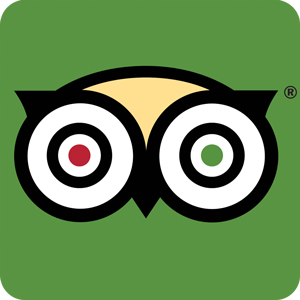
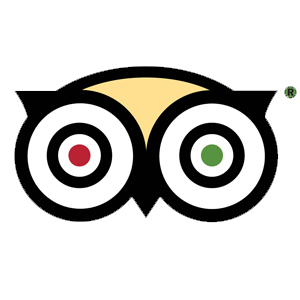
header panels

diff --git a/assets/override.css b/assets/override.css
@@ -56,18 +56,27 @@
                 }
             .video-wrpr .container-fluid  .header-menu-top .panel.panel--tripadvisor{
                 width: 100%;
-                padding: 15px;
+                padding: 0 15px;
                 float: left;
-                background-color: rgba(255,255,255,0.5);
+                background-color: rgba(87, 147, 64, 0.7);
             }
                 .video-wrpr .container-fluid  .header-menu-top .panel.panel--tripadvisor img {
-                    width: 100%;
+                    height: 40px;
                     margin: 10px 0;
                 }
                 .video-wrpr .container-fluid  .header-menu-top .panel.panel--tripadvisor blockquote {
-                    margin: 10px 0;
+                    margin: 10px 0 10px -10px;
                     font-size: 12px;
+                    height: 40px;
                 } 
+                    .video-wrpr .container-fluid  .header-menu-top .panel.panel--tripadvisor blockquote p {
+                        height: 40px;
+                        text-align: left;
+                        vertical-align: middle;
+                        display: table-cell;
+                        color: white;
+                        font-weight: bold;
+                    }
             .video-wrpr .container-fluid  .header-menu-top .panel.panel--gallery {
                 background: transparent;
             } 
@@ -79,19 +88,22 @@
                         margin: 0;
                     }
                         .video-wrpr .container-fluid  .header-menu-top .panel.panel--gallery .gallery-list li {
-                            
-                            width: 20%;
-                            display: block;
-                            float: left;
-                            padding: 0 30px;
+                            display: inline-block;
+                            padding: 0 6px;
+                            height: 62px;
                         }
+                            .video-wrpr .container-fluid  .header-menu-top .panel.panel--gallery .gallery-list li img {
+                                height: 100%;
+                            }
             .video-wrpr .container-fluid  .header-menu-top .logo {
-                display: block;
-                border-radius: 50%;
-                overflow: hidden;
+                display: inline-block;
+                    border-radius: 50%;
+                    overflow: hidden;
+                    height: 62px;
             }
                 .video-wrpr .container-fluid  .header-menu-top .logo img {
-                    width: 100%;
+                    max-width: 100%;
+                    height: 100%;
                 }          
         .video-wrpr .container-fluid .header-panel {
             top: 50%;

diff --git a/index.html b/index.html
@@ -48,10 +48,10 @@
                 <div class="col-xs-12 text-center">
                     <!-- <a href="#" class="btn btn-primary btn-lg width-250">Reviews</a> -->
                     <div class="row">
-                        <div class="col-md-3 col-xs-8">
+                        <div class="col-xs-3">
                             <div class="panel panel--tripadvisor">
                                 <div class="row">
-                                    <div class="col-sm-3 col-xs-5">
+                                    <div class="col-sm-3 col-xs-5 text-center">
                                         <img src="assets/images/tripadvisor.png" alt="TripAdvisor">
                                     </div>
                                     <div class="col-sm-9 col-xs-7">
@@ -64,7 +64,7 @@
                                 </div>
                             </div>
                         </div>
-                        <div class="col-md-7 hidden-xs">
+                        <div class="col-xs-6 col-xs-offset-1">
                             <div class="panel panel--gallery">
                                <ul class="gallery-list">
                                    <li><img src="http://lorempixel.com/200/200/cats/1/" alt="thumbnail" class="img-thumbnail"></li>
@@ -75,7 +75,7 @@
                                </ul>
                             </div>
                         </div>
-                        <div class="col-xs-4 col-md-1 col-md-offset-1">
+                        <div class="col-xs-2 text-right">
                             <a href="/" class="logo">
                                 <img src="assets/images/yacht.png" alt="Auqasail">
                             </a>
